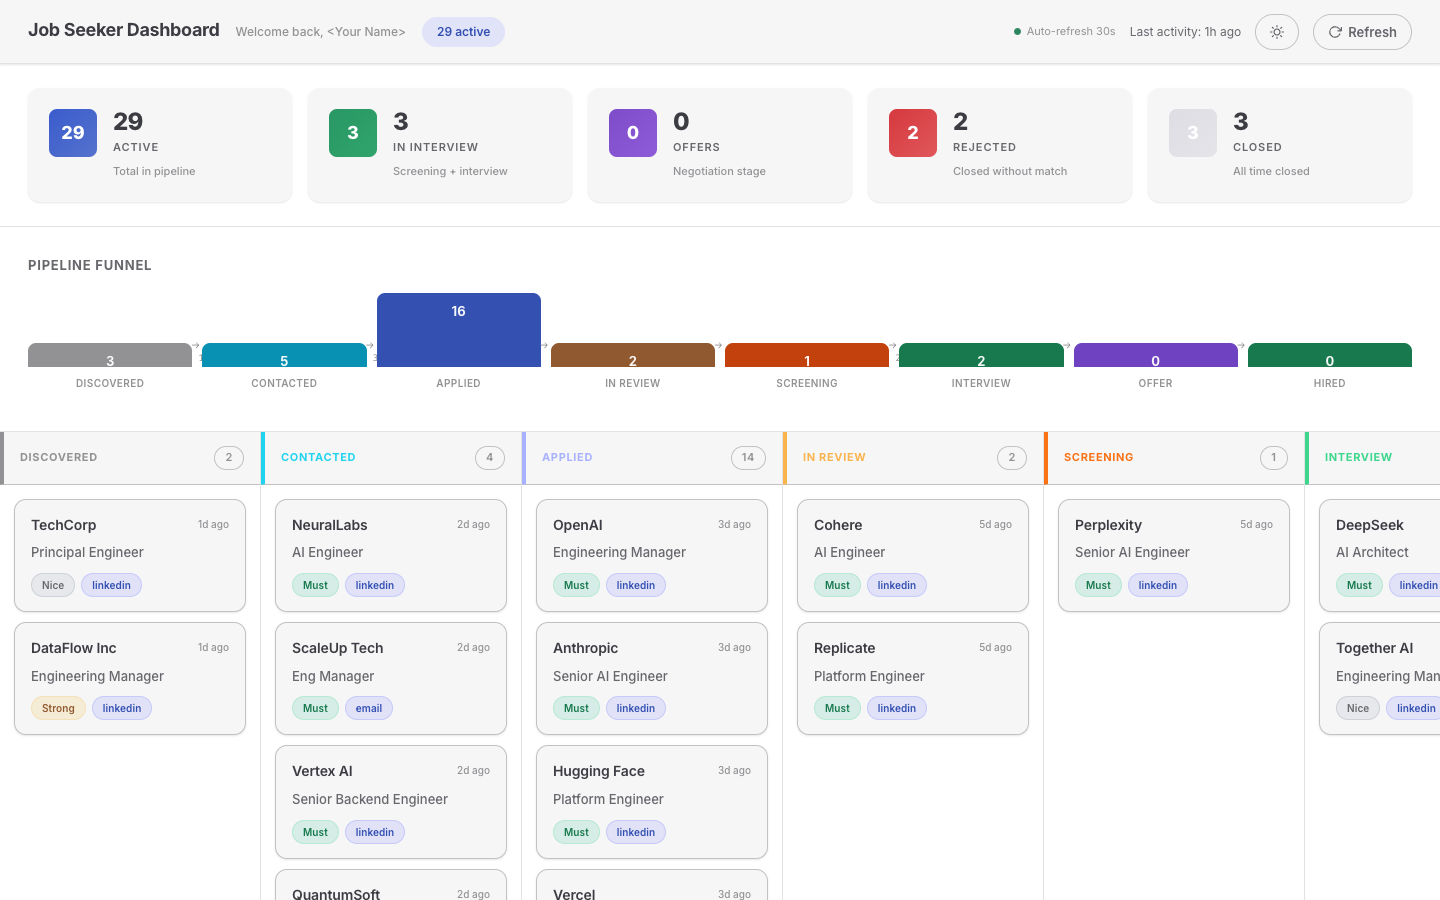
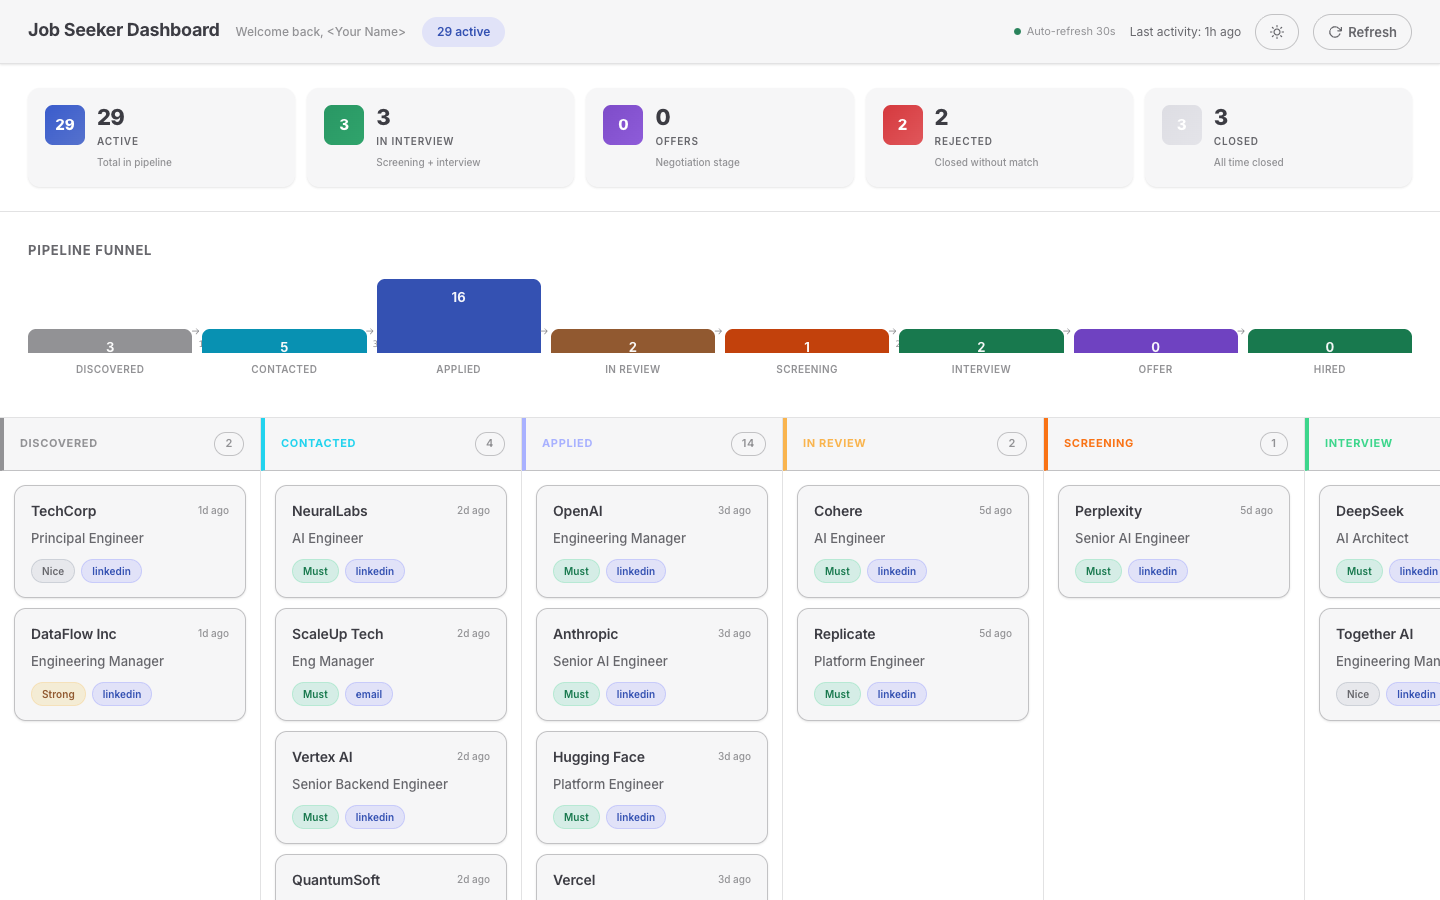
Compact KPI cards to keep all 5 in one row
Reduced KPI card size to ensure all five fit on one row at
1440px without wrapping:
- padding 20px -> 16px
- icon 48px -> 40px
- gap 16px -> 12px
- font sizes slightly smaller
- sublabels truncate with ellipsis

Regenerated dashboard-light.png at 1440x900 with all KPIs
on a single row.

Generated with [Devin](https://devin.ai)

diff --git a/scripts/templates/dashboard.html b/scripts/templates/dashboard.html
@@ -278,27 +278,28 @@
   .kpi-grid {
     display: grid;
     grid-template-columns: repeat(5, minmax(0, 1fr));
-    gap: 16px;
+    gap: 12px;
   }
-  @media (max-width: 1300px) {
+  @media (max-width: 1200px) {
     .kpi-grid { grid-template-columns: repeat(3, minmax(0, 1fr)); }
   }
-  @media (max-width: 900px) {
+  @media (max-width: 820px) {
     .kpi-grid { grid-template-columns: repeat(2, minmax(0, 1fr)); }
   }
-  @media (max-width: 600px) {
+  @media (max-width: 560px) {
     .kpi-grid { grid-template-columns: 1fr; }
   }
   .kpi-card {
     background: var(--vp-c-bg-soft);
     border: 1px solid transparent;
     border-radius: var(--radius);
-    padding: 20px;
+    padding: 16px;
     display: flex;
     align-items: flex-start;
-    gap: 16px;
+    gap: 12px;
     transition: var(--vp-transition);
     box-shadow: var(--vp-shadow-1);
+    min-width: 0;
   }
   .kpi-card:hover {
     background: var(--vp-c-bg-elv);
@@ -307,13 +308,13 @@
     transform: translateY(-1px);
   }
   .kpi-icon {
-    width: 48px;
-    height: 48px;
+    width: 40px;
+    height: 40px;
     border-radius: var(--radius-sm);
     display: flex;
     align-items: center;
     justify-content: center;
-    font-size: 18px;
+    font-size: 15px;
     font-weight: 800;
     flex-shrink: 0;
     color: var(--vp-c-white);
@@ -321,16 +322,17 @@
   .kpi-content {
     flex: 1;
     min-width: 0;
+    overflow: hidden;
   }
   .kpi-value {
-    font-size: 24px;
+    font-size: 22px;
     font-weight: 800;
     letter-spacing: -0.03em;
     line-height: 1.1;
     color: var(--vp-c-text-1);
   }
   .kpi-label {
-    font-size: 11px;
+    font-size: 10px;
     color: var(--vp-c-text-2);
     text-transform: uppercase;
     letter-spacing: 0.08em;
@@ -338,10 +340,13 @@
     font-weight: 600;
   }
   .kpi-sublabel {
-    font-size: 11px;
+    font-size: 10px;
     color: var(--vp-c-text-3);
-    margin-top: 6px;
+    margin-top: 5px;
     font-weight: 500;
+    white-space: nowrap;
+    overflow: hidden;
+    text-overflow: ellipsis;
   }
 
   .kpi-active .kpi-icon   { background: linear-gradient(135deg, var(--vp-c-indigo-2), var(--vp-c-indigo-3)); }
